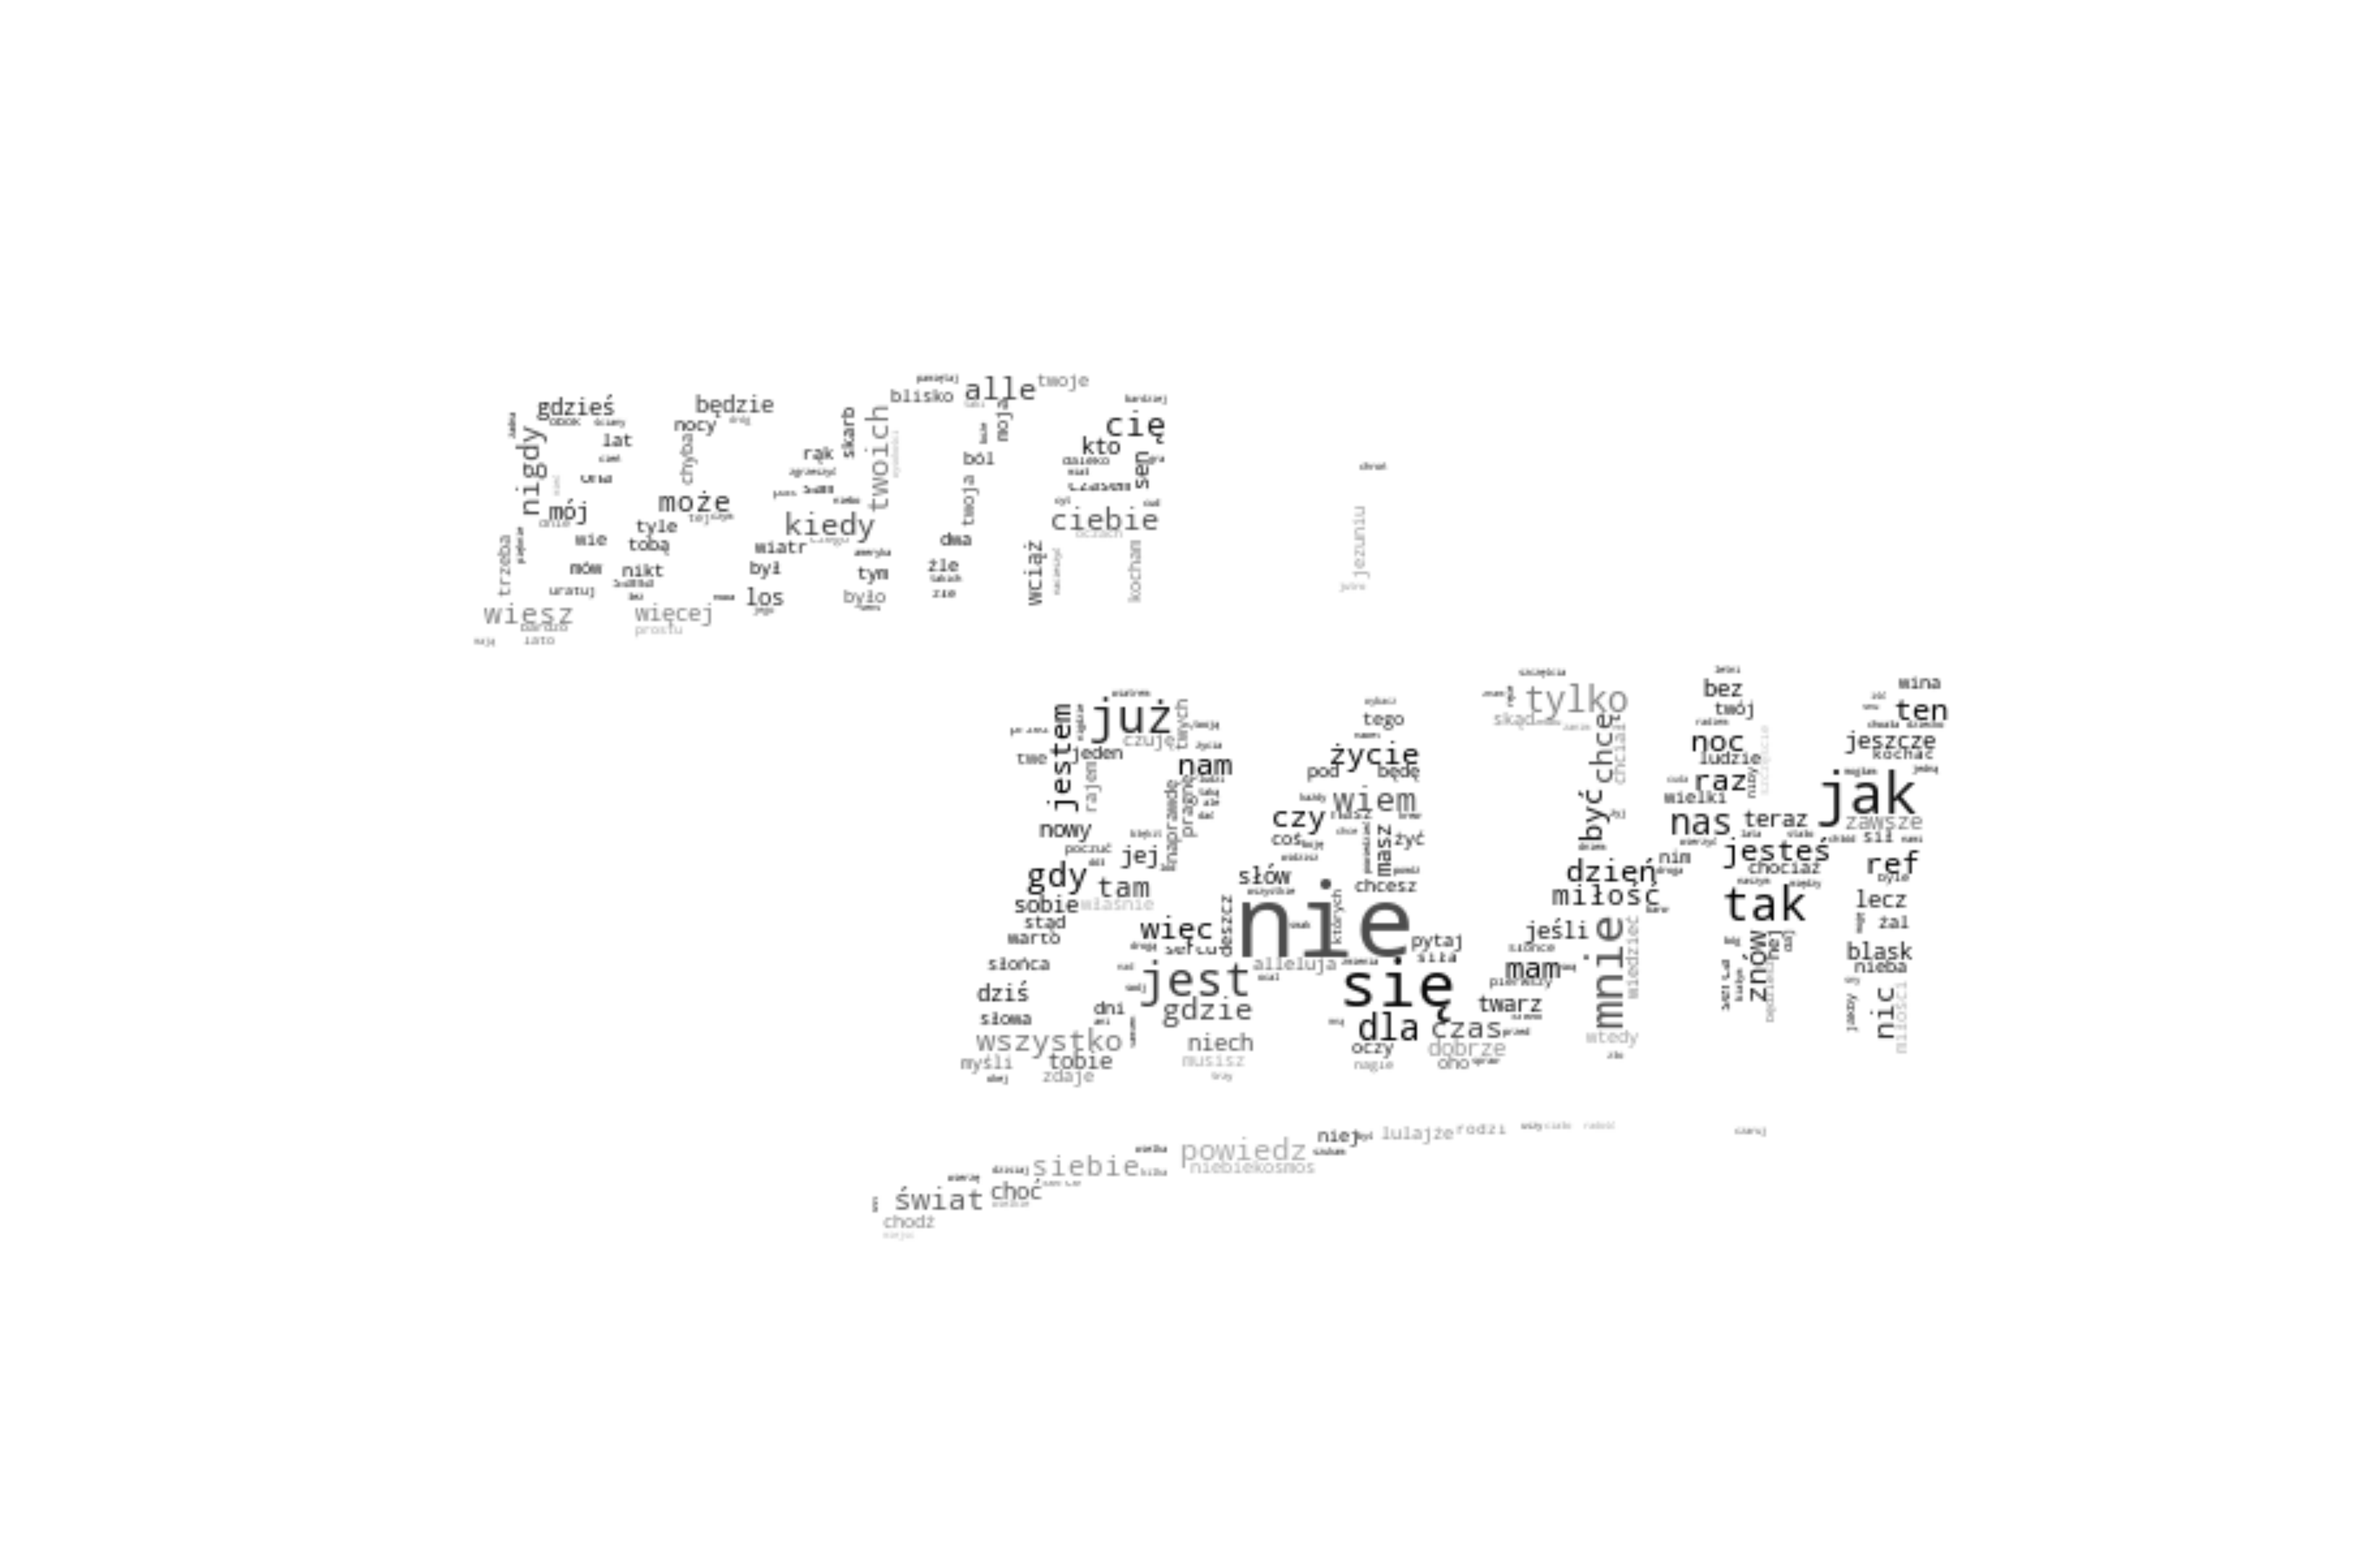
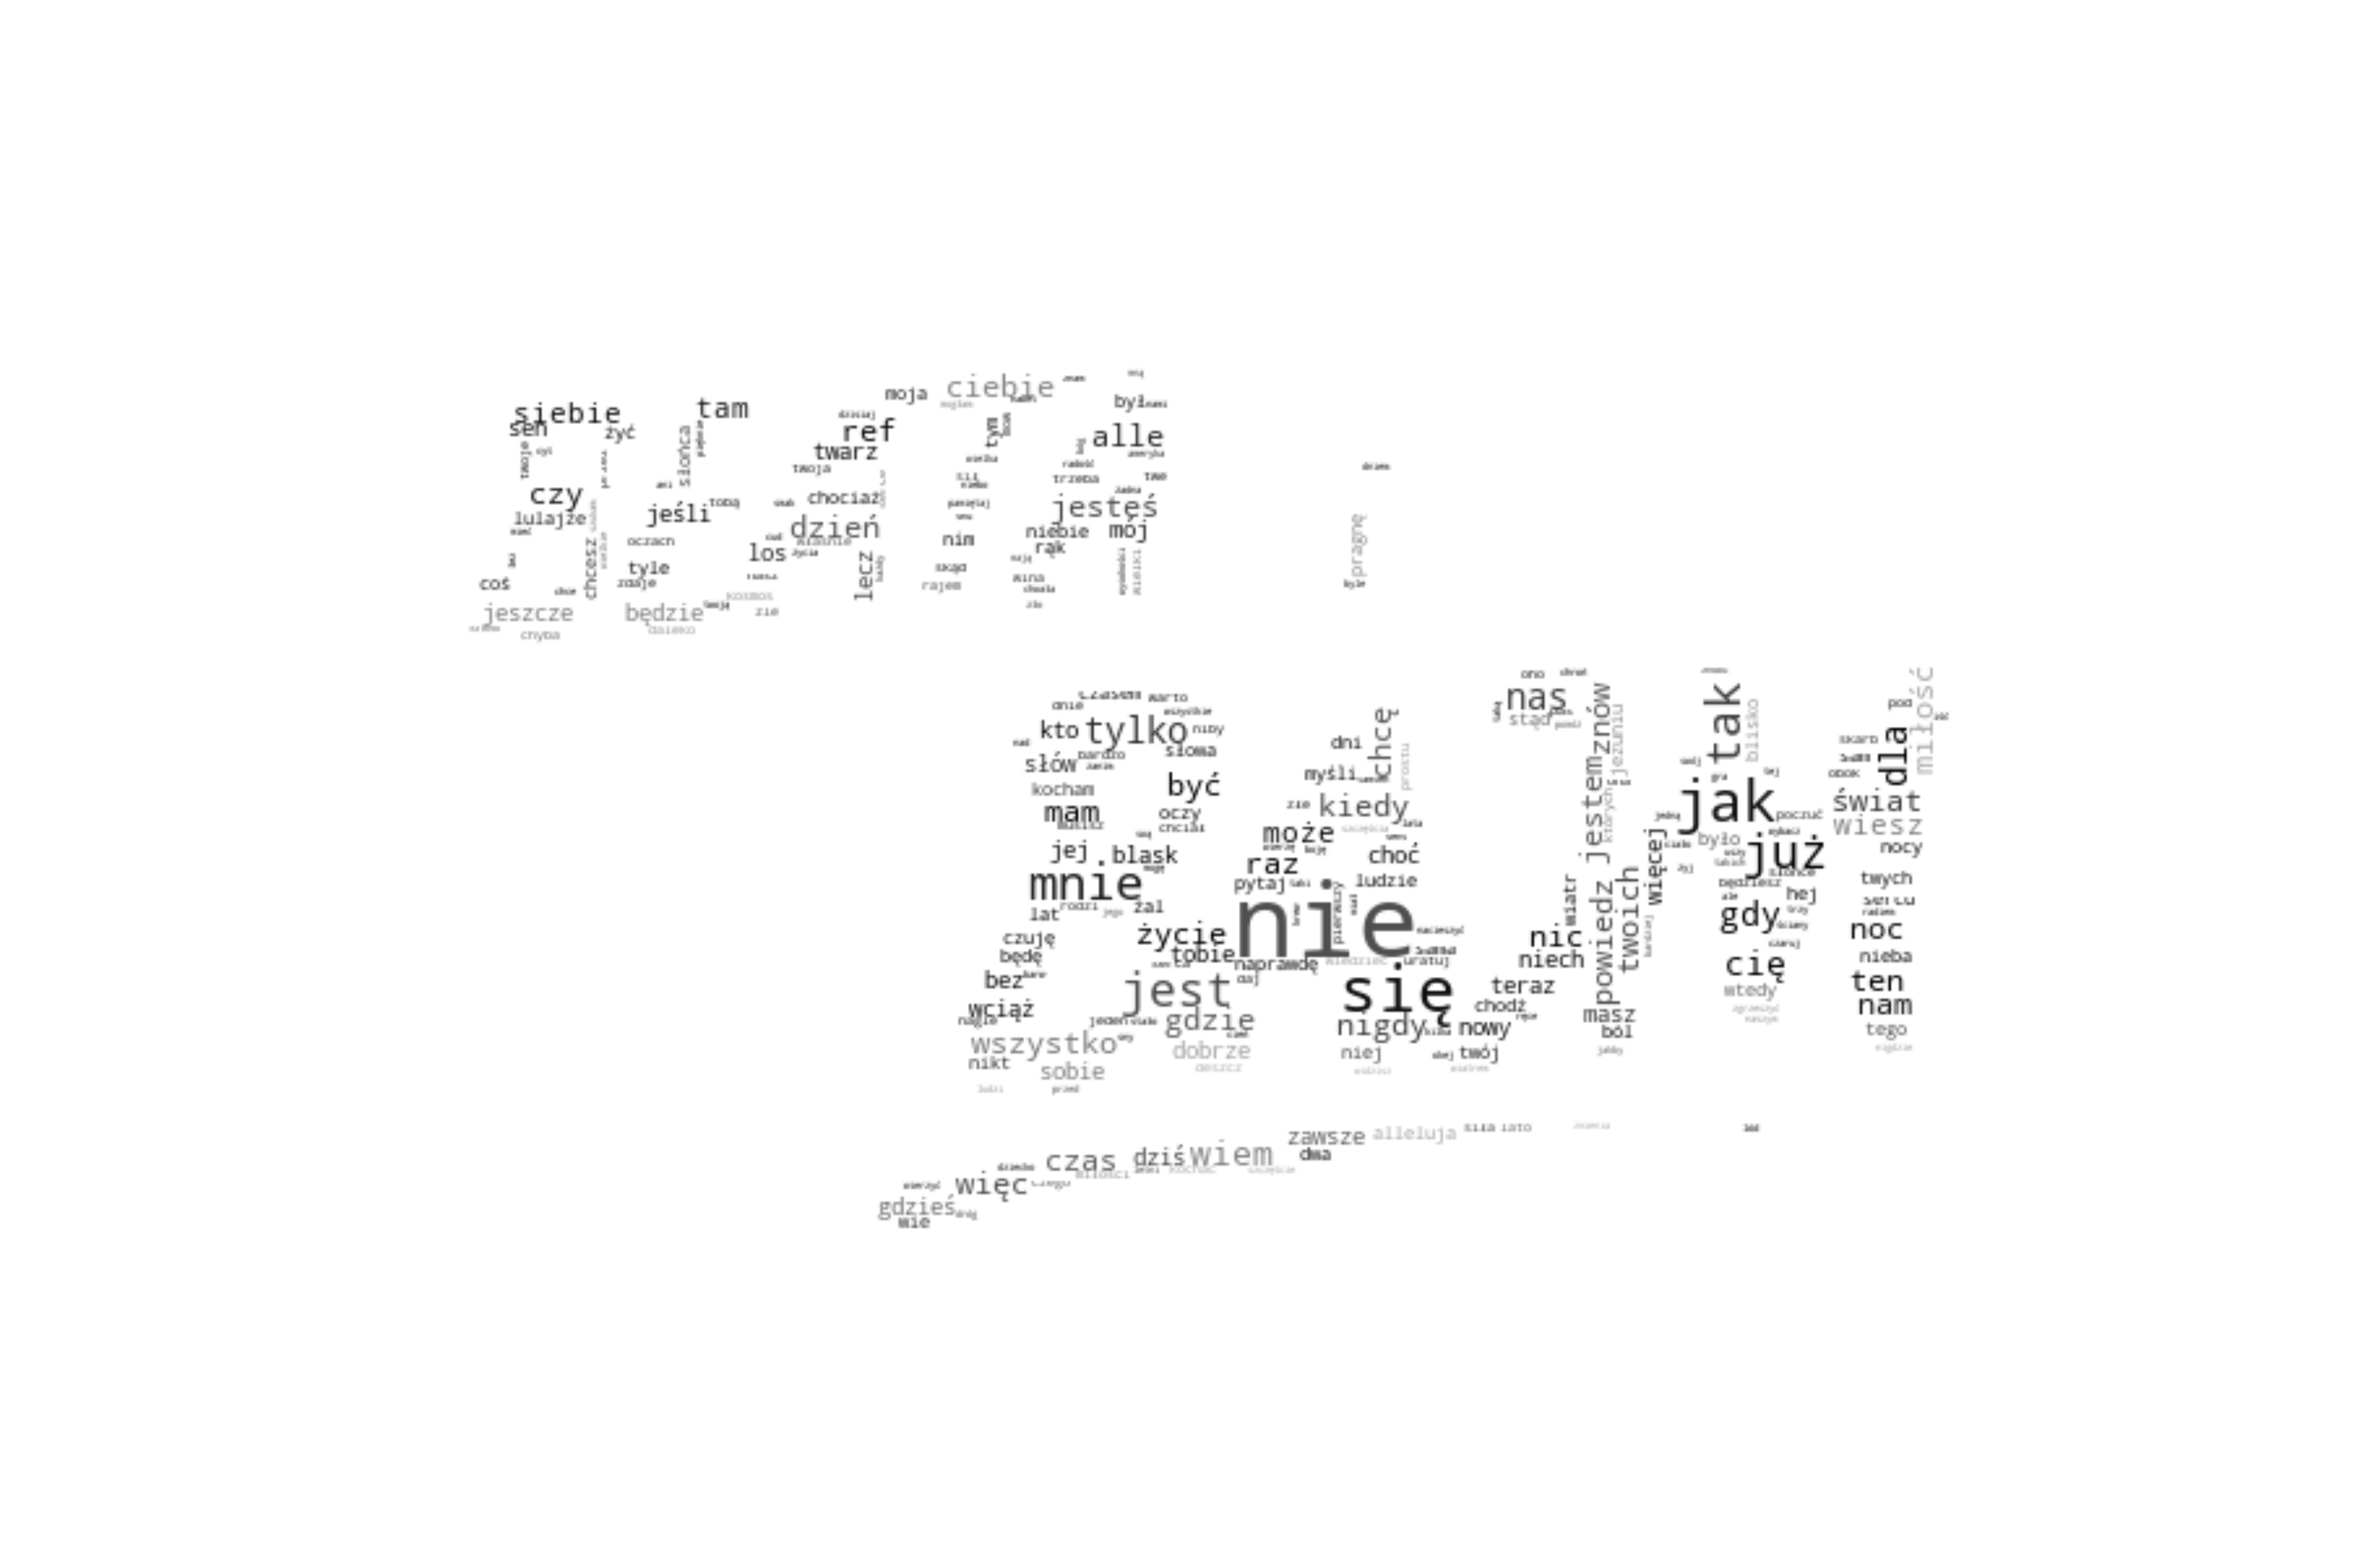
hę

diff --git a/chmurkowanko.py b/chmurkowanko.py
@@ -29,10 +29,8 @@ def chmuruj_slownik_ponad_x(wejscie_slownik=przetwarzanko.wczytywanko("Dane.txt"
 			slownik_do_chmury[ str(i) ] = float( wejscie_slownik[i] )
 
 	wordcloud = WordCloud(max_font_size=50, max_words=100, background_color="white").generate_from_frequencies(slownik_do_chmury)
+	wordcloud.to_file(sciezka)
 
-	plt.imshow(wordcloud, interpolation="bilinear")
-	plt.axis("off")
-	plt.savefig(sciezka)
 	return
 
 def chmury_4_all(sciezka_in, sciezka_out, ilosc):
@@ -69,7 +67,7 @@ def chmury_z_grafik(wejscie_slownik, art, x=3):
 			slownik_do_chmury[ str(i) ] = float( wejscie_slownik[i] )
 	
 	mask = np.array(Image.open('Chmury\\Grafiki_do_chmur\\'+art+'.jpg'))
-	chmurka = WordCloud( background_color="white", mode="RGBA", mask=mask, max_font_size=50, max_words=3000).generate_from_frequencies(slownik_do_chmury)
+	chmurka = WordCloud( background_color="white", mode="RGB", mask=mask, max_font_size=50, max_words=3000, width=1500, height=1500, contour_width=0).generate_from_frequencies(slownik_do_chmury)
 	image_colors = ImageColorGenerator(mask)
 	chmurka.recolor(color_func=image_colors)
 	chmurka.to_file('Chmury\\Grafochmurki\\'+art+'.png')
